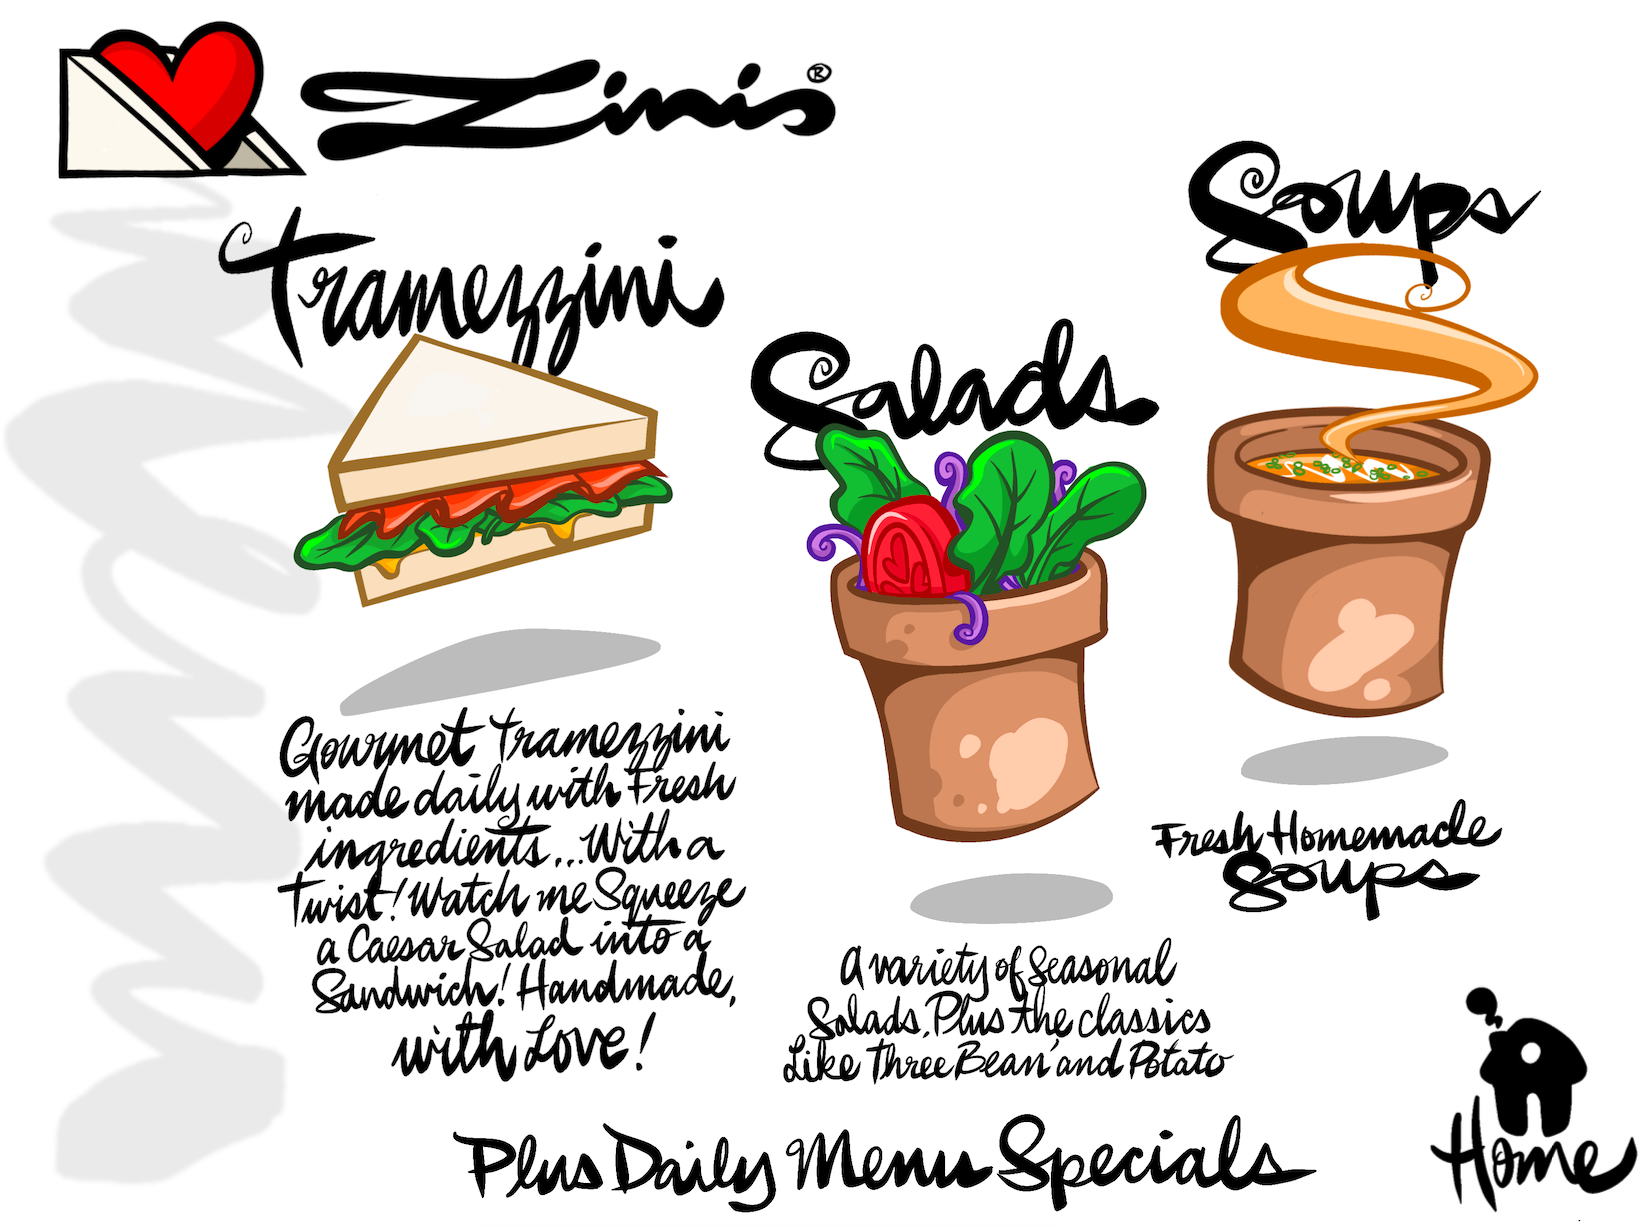
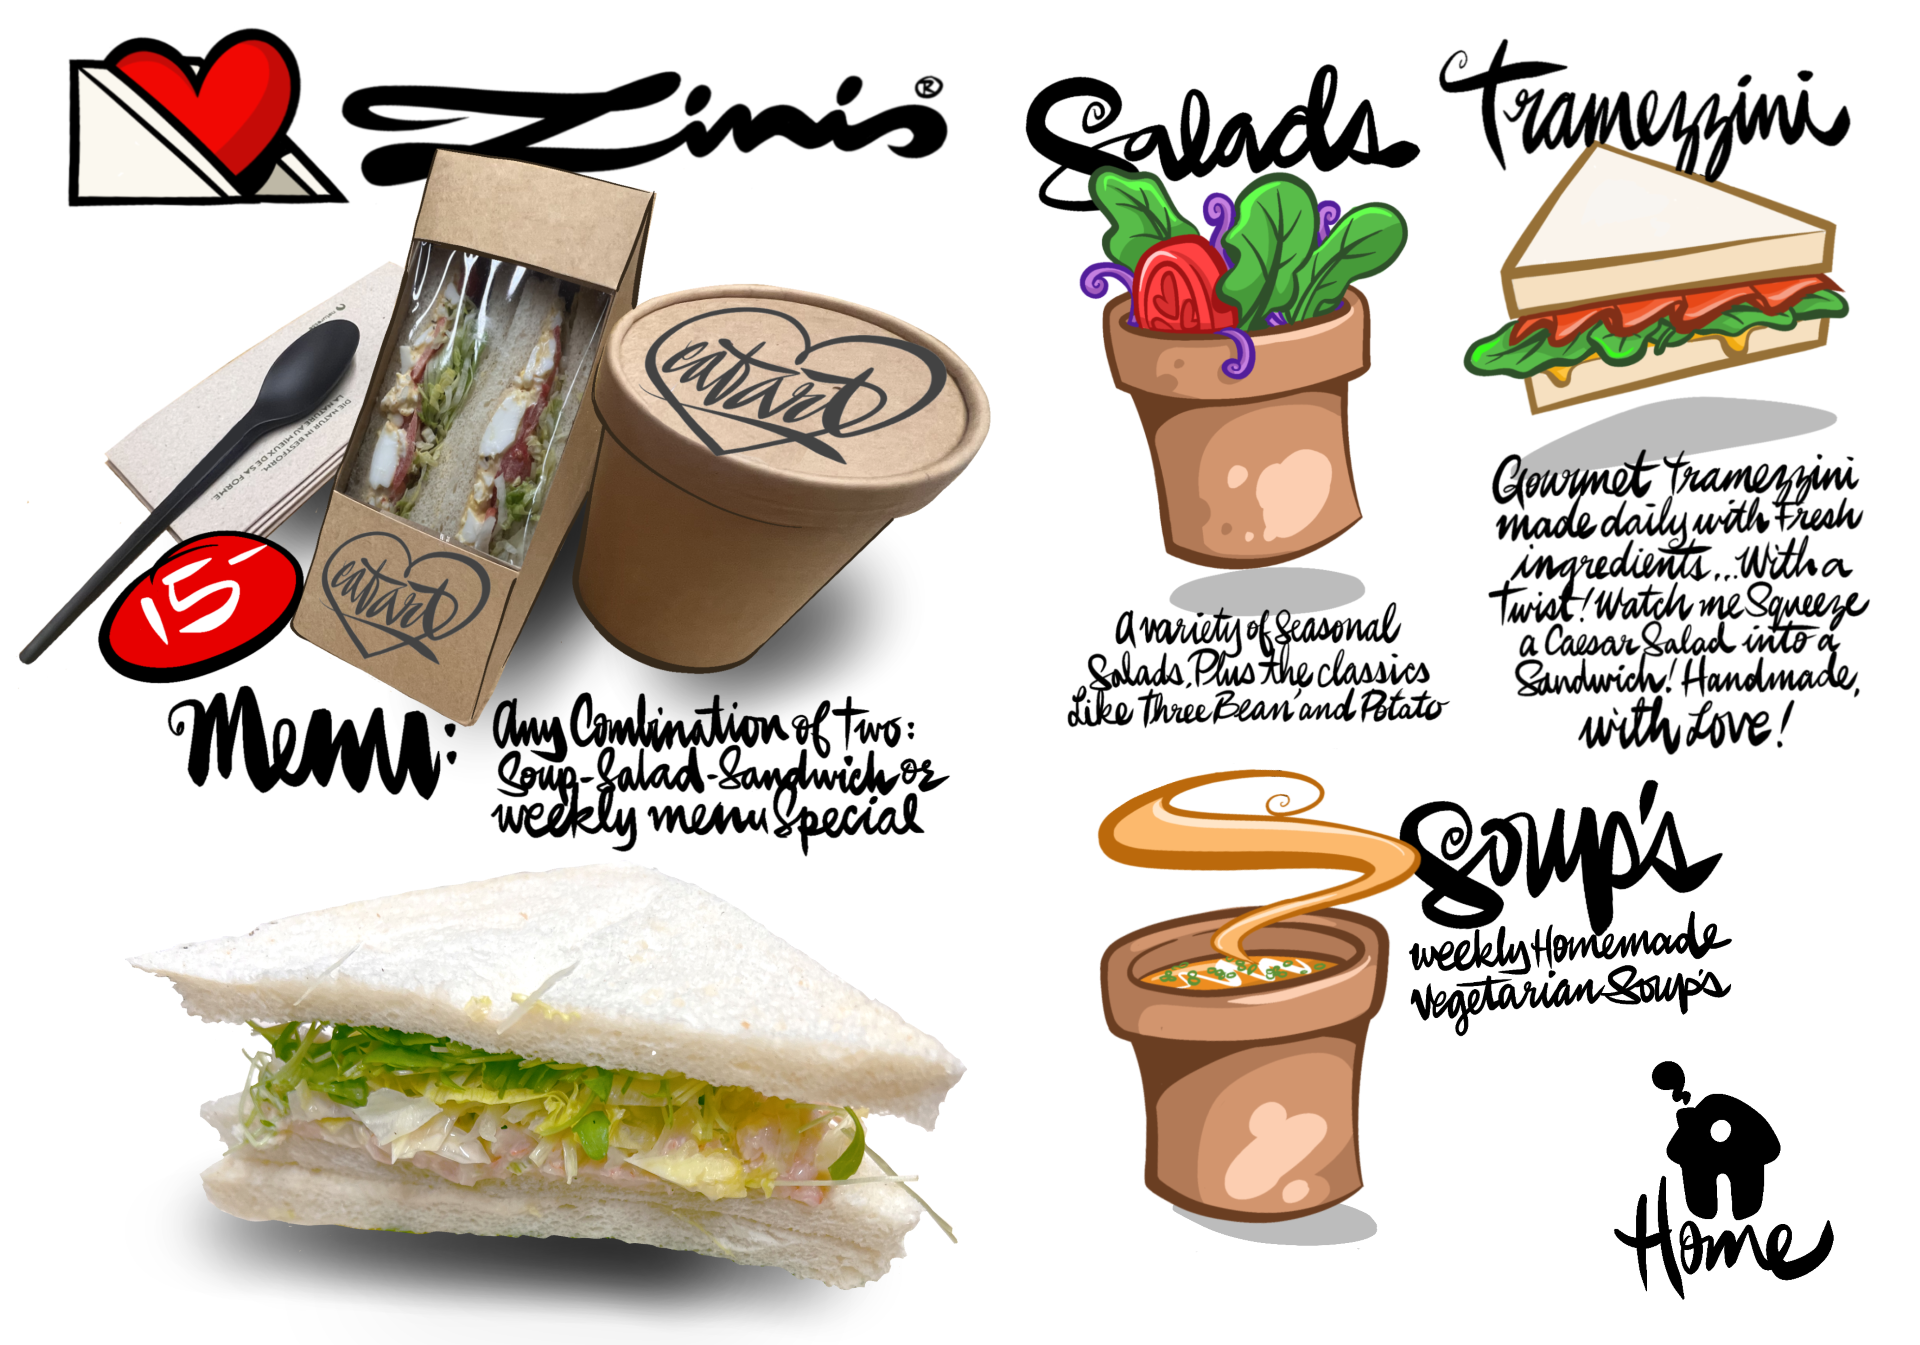
new menu.

diff --git a/menu_mobile.html b/menu_mobile.html
@@ -6,9 +6,8 @@
     <link rel="stylesheet" href="style/stylesheet.css">
 </head>
 <body>
-<img src="fragments/trameggini.png"  width="954" class="center" alt="">
-<img src="fragments/salad.png"  width="800" class="center" alt="">
-<img src="fragments/soup.png"  width="650" class="center" alt="">
+<img src="fragments/menu1.png"  width="954" class="center" alt="">
+<img src="fragments/menu2.png"  width="954" class="center" alt="">
 <br>
 <br>
 <img src="fragments/daily.png"  width="954" class="center" alt="">
@@ -18,6 +17,8 @@
 <br>
 <br>
 <a href="index.html"><img src="fragments/home.png"  width="240" class="center" alt=""></a>
+<br>
+<br>
 <br>
 <br>
 <br>

diff --git a/where_mobile.html b/where_mobile.html
@@ -35,5 +35,7 @@
 <br>
 <br>
 <br>
+<br>
+<br>
 </body>
 </html>
